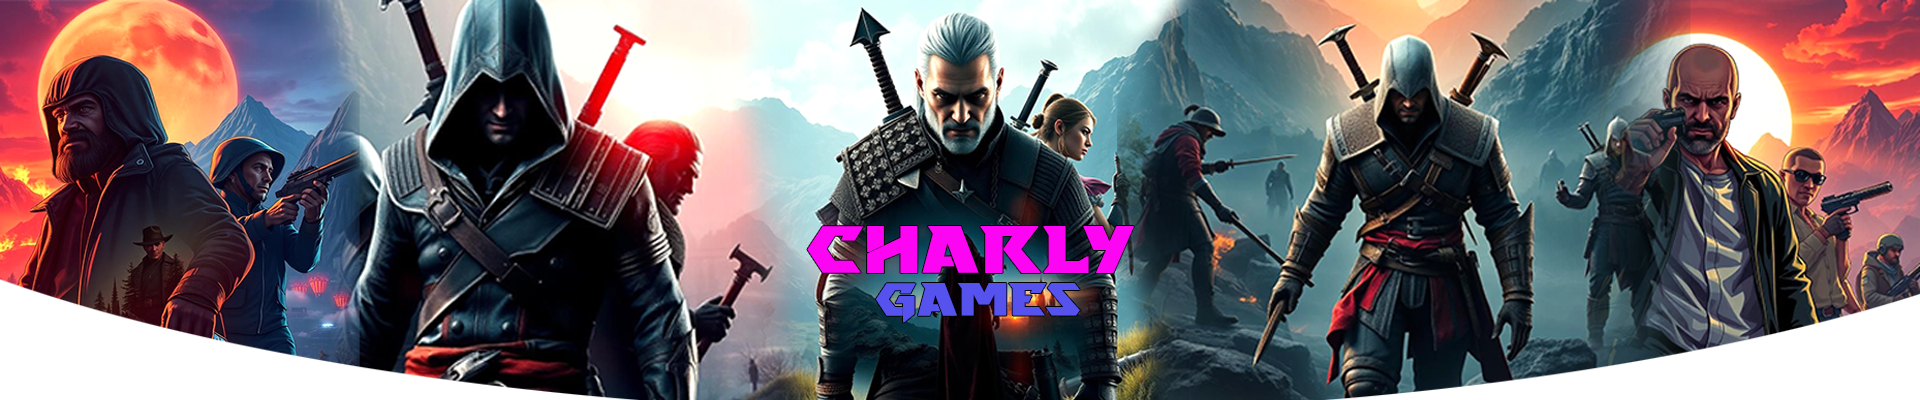
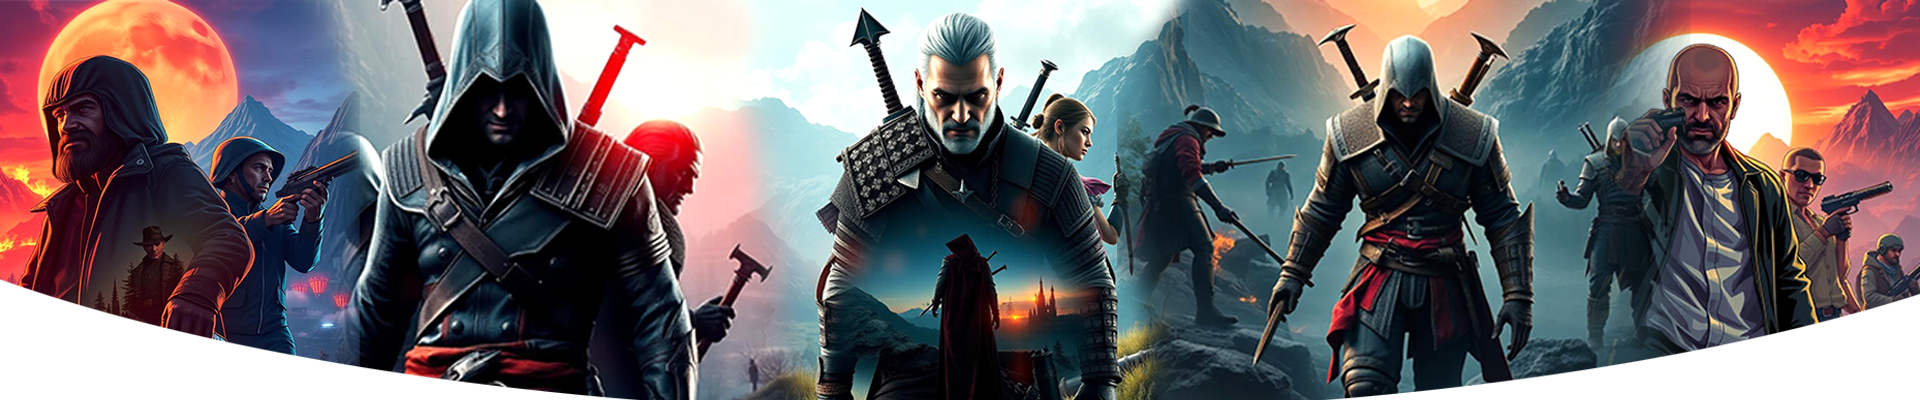
finalizando baner

Changed region(s): [[0.4062, 0.54, 0.5938, 0.81]]

diff --git a/src/app/page.tsx b/src/app/page.tsx
@@ -56,13 +56,27 @@ const filteredGames = useMemo(() => {
       <div className="container mx-auto px-4 py-8 bg-gray-100">
 
 
+
+  {/* Imagen base */}
 <div className="relative w-full h-[400px] overflow-hidden">
+  {/* Imagen fondo */}
   <Image
     src="/baner.png"
     alt="Banner principal"
     fill
-    className="object-cover object-center lg:object-top"
+    className="object-cover object-center lg:object-top opacity-0 transition-opacity duration-1000 delay-300 ease-in-out"
+    onLoadingComplete={(img) => img.classList.remove('opacity-0')}
     priority
+  />
+
+  {/* Imagen encima */}
+  <Image
+    src="/logo.png"
+    alt="Banner encima"
+    width={200}
+    height={200}
+    className="absolute top-40 left-1/2 -translate-x-1/2 opacity-0 transition-opacity duration-1000 delay-300 ease-in-out"
+    onLoadingComplete={(img) => img.classList.remove('opacity-0')}
   />
 </div>
         <div className="text-center">
